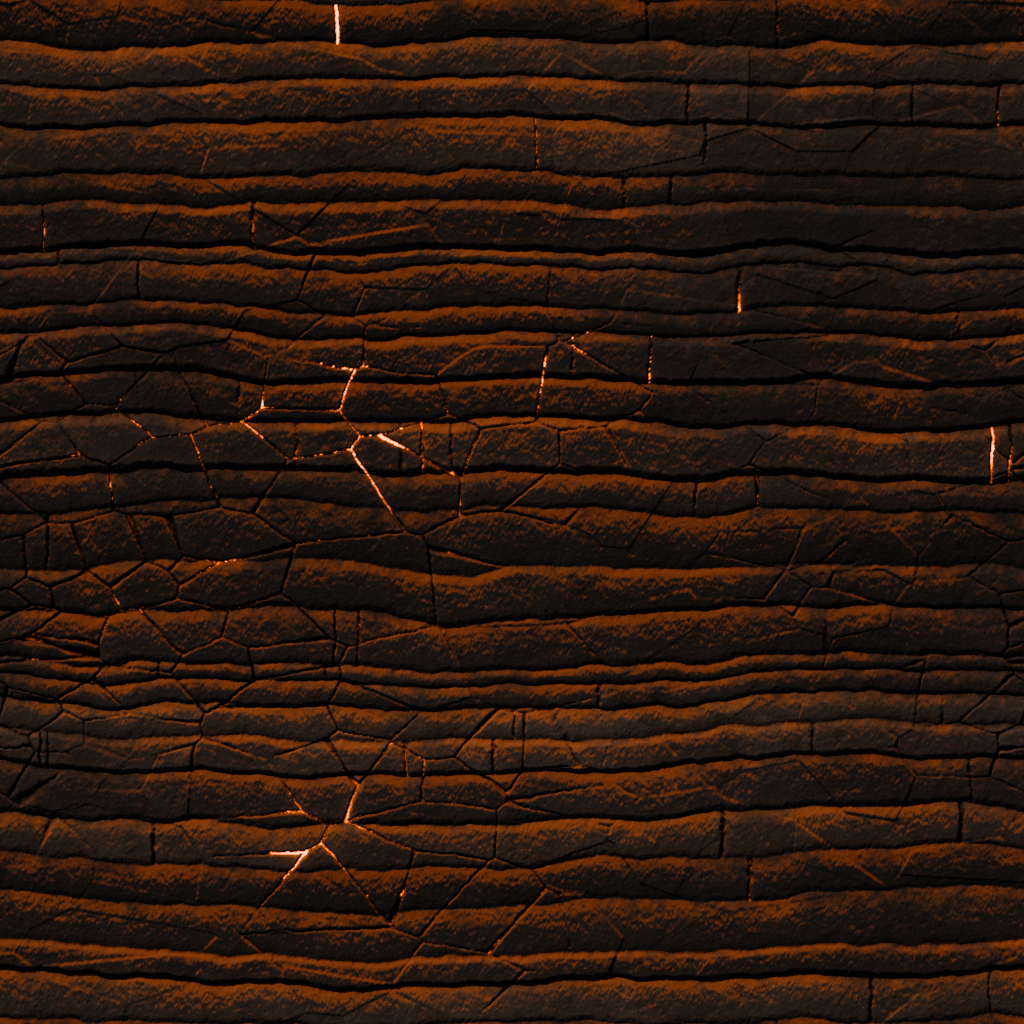
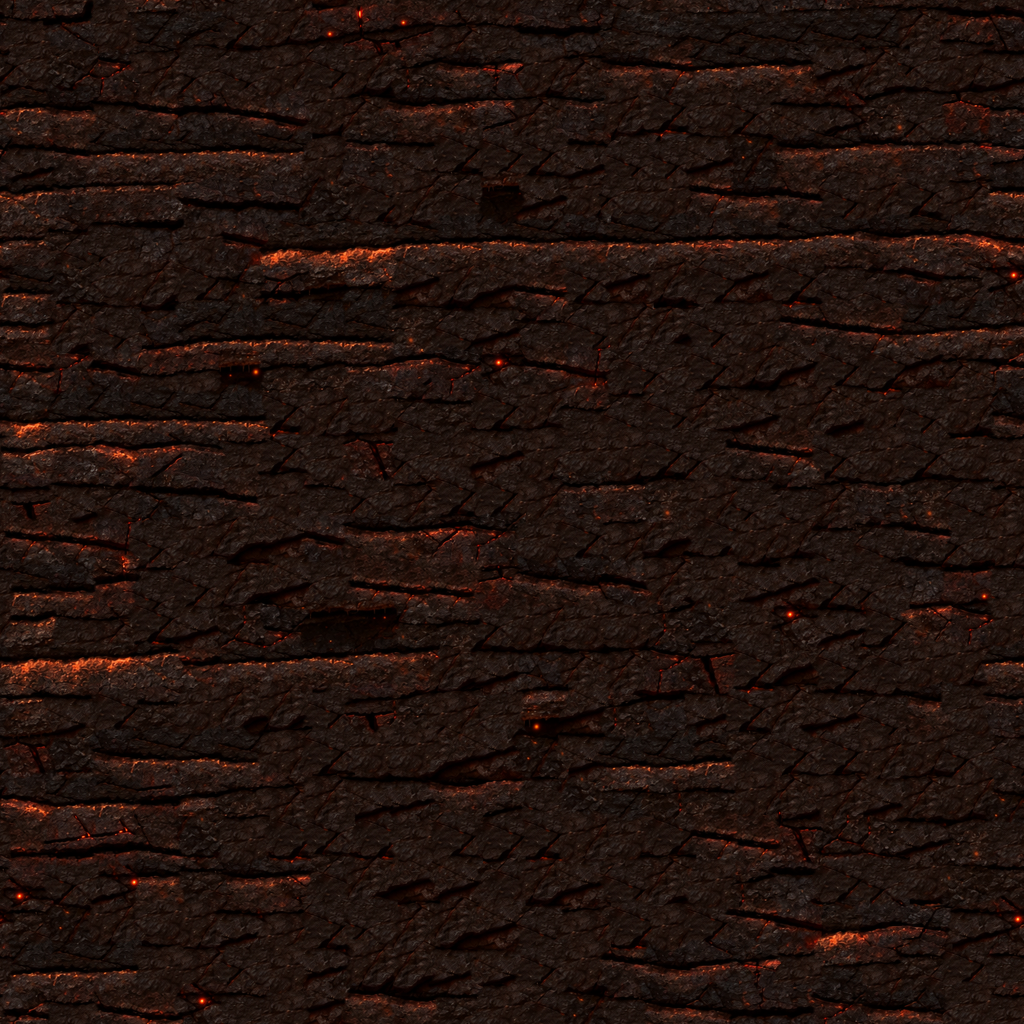
Вулкан: базальт с трещинами лавы из эталона (+карта деталей); свечение лавы определяется по исходной текстуре
Claude-Session: https://claude.ai/code/session_01JvXrYdG1XCH4i3GESsQzbh

diff --git a/index.html b/index.html
@@ -28,7 +28,7 @@
       <div class="menu-facts"><div><strong>41</strong><span>вида оружия<br>и снаряжения</span></div><div><strong>08</strong><span>постоянных<br>полей боя</span></div><div><strong>02</strong><span>игрока.<br>один победитель.</span></div></div>
     </div>
     <div class="featured-map"><span class="eyebrow">ВЫБЕРИ СВОЁ ПОЛЕ БОЯ</span><div class="featured-title"><span id="featured-number">01 / 08</span><h2 id="featured-name">Зелёная долина</h2><div><button class="arrow-btn" data-act="map-prev" aria-label="Предыдущая карта">←</button><button class="arrow-btn" data-act="map-next" aria-label="Следующая карта">→</button></div></div><p id="featured-desc">Мельница на холме, пруд с мостом и тоннель под большим холмом</p><div class="map-dots" id="map-dots"></div><div class="static-label">◇ Фиксированная карта · Разрушаемое окружение</div></div>
-    <footer class="menu-footer"><span id="game-version">ВЕРСИЯ 2026.10.01-5</span><span>ПЛАНИРУЙ ХОД. МЕНЯЙ ЛАНДШАФТ.</span><span class="footer-status"><i></i> ГОТОВ К БОЮ</span></footer>
+    <footer class="menu-footer"><span id="game-version">ВЕРСИЯ 2026.10.01-6</span><span>ПЛАНИРУЙ ХОД. МЕНЯЙ ЛАНДШАФТ.</span><span class="footer-status"><i></i> ГОТОВ К БОЮ</span></footer>
   </section>
 
   <!-- Онлайн -->

diff --git a/js/terrain_visual.js b/js/terrain_visual.js
@@ -284,7 +284,7 @@ function shadeMaterial(S, mt, x, y, t, capT, d, info, o, isBack) {
   } else if (mt === 2 && S.tx.rock) {
     // пласты породы из Blender; светящиеся швы (лава, кристаллы) идут в слой свечения
     texAt(S.tx.rock, x, y, o); r = o.r * S.texGain; g = o.g * S.texGain; bl = o.b * S.texGain; o.tex = true;
-    if (S.glowTex && !isBack) { const G2 = S.glowTex, dot = (r * G2[0] + g * G2[1] + bl * G2[2]) / (Math.hypot(G2[0], G2[1], G2[2]) * (Math.hypot(r, g, bl) + 1)), br = Math.max(r, g, bl);
+    if (S.glowTex && !isBack) { const G2 = S.glowTex, dot = (o.r * G2[0] + o.g * G2[1] + o.b * G2[2]) / (Math.hypot(G2[0], G2[1], G2[2]) * (Math.hypot(o.r, o.g, o.b) + 1)), br = Math.max(o.r, o.g, o.b);   /* свечение — по исходной текстуре, без усиления яркости */
       if (dot > 0.93 && br > 150) { o.ga = Math.min(255, (br - 150) * 2.4); o.gr = G2[0]; o.gg = G2[1]; o.gb = G2[2]; o.emit = true; o.r = r; o.g = g; o.b = bl; } }
     if (capT > 0 && t - capT < 10) { const sd = t - capT, k = sd < 4 ? 0.5 : 0.66 + (sd - 4) * 0.057; r *= k; g *= k; bl *= k; }
     { const sd = t - capT, dk = Math.max(0, Math.min(1, (y - S.H * 0.35) / (S.H * 0.6))), up = sd < 60 ? 1.08 - sd / 60 * 0.08 : 1; const k = (1 - 0.08 * dk) * up; r *= k; g *= k * 0.98; bl *= k * 0.96; }   // глубже — темнее, у освещённого верха светлее

diff --git a/js/themes.js b/js/themes.js
@@ -89,7 +89,7 @@ const THEMES = {
       strata: ['#4b3c39', '#5b4944', '#3e3130', '#655149', '#4e3e3a'], band: 26, bandSharp: 0.3,
       rock: ['#6a5244', '#7e6250', '#5a4438', '#8a6c56', '#725a4a'], rockDirt: true, rockBand: 48, backK: 1.5,
       pebbles: ['#6a5a54', '#7a6862', '#5a4a44'], smoothStones: true,
-      outline: '#0d0606', veins: { color: '#ff7a20', w: 0.026, glow: true, hot: true }, ceiling: 'stalactites', capMats: [1, 9], tex: { rock: 'rock_volcano', cave: 'cave_volcano', cap: 'cap_ash', gain: 1.3, glowTex: [255, 110, 30] },
+      outline: '#0d0606', veins: { color: '#ff7a20', w: 0.026, glow: true, hot: true }, ceiling: 'stalactites', capMats: [1, 9], tex: { rock: 'rock_volcano', cave: 'cave_volcano', cap: 'cap_ash', gain: 2.6, glowTex: [255, 110, 30] },
     },
     scatter: ['obsidian', 'lavarock', 'bones', 'obsidian', 'lavarock'],
     weather: 'embers', birds: false, ambient: '#a47a6c', ambientSound: 'lava', glow: true,

diff --git a/js/art.js b/js/art.js
@@ -48,7 +48,7 @@ const TexLib = {
   data: {},
   ready: null,
   hi: {},
-  hiAvail: new Set(['brick_castle', 'dirt_canyon', 'rock_arctic', 'rock_canyon']),   // какие карты деталей есть в assets/tex/hi (обновляет dev/make_detail.py)
+  hiAvail: new Set(['brick_castle', 'dirt_canyon', 'rock_arctic', 'rock_canyon', 'rock_volcano']),   // какие карты деталей есть в assets/tex/hi (обновляет dev/make_detail.py)
   /** карта мелких деталей текстуры (рендер в двойном разрешении): яркость деталей мельче пикселя карты, 128 = без изменения */
   loadHi(n) {
     if (this.hi[n] !== undefined) return this.hi[n];
